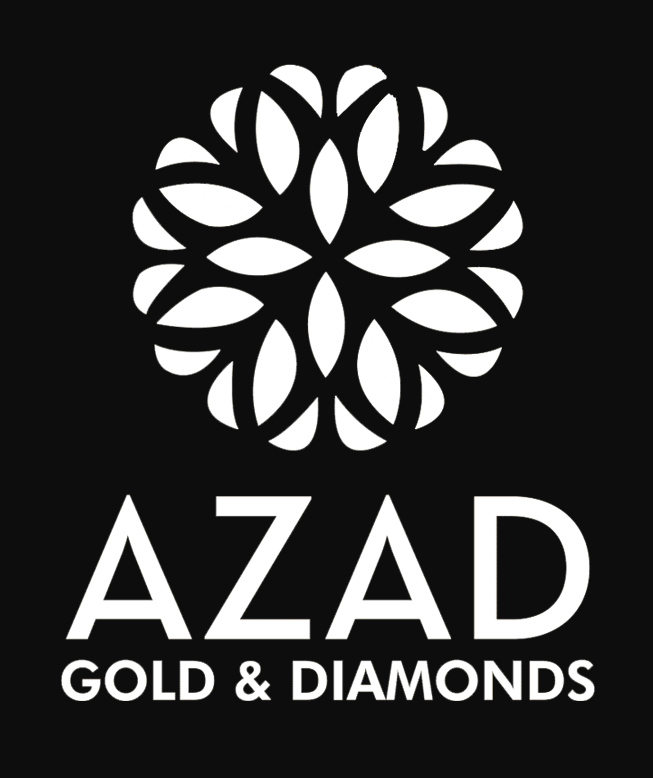
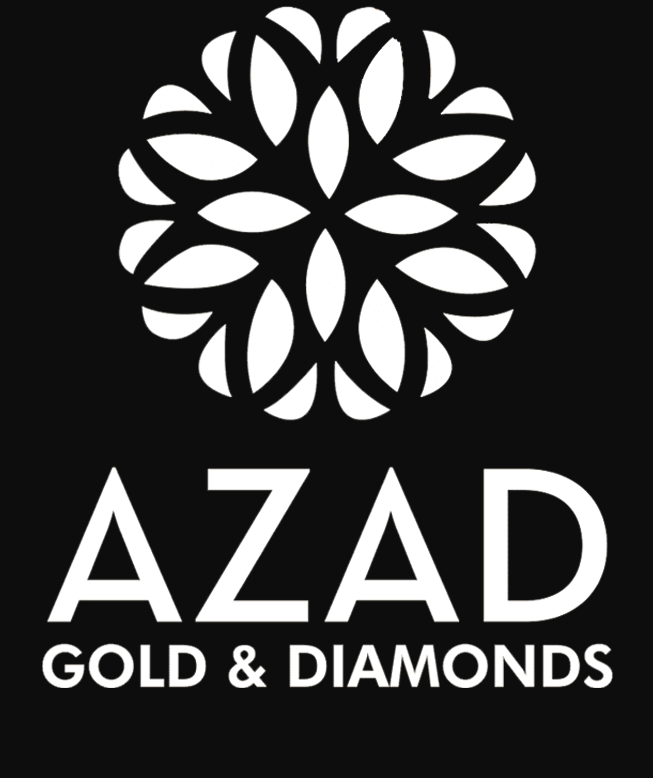
footer img

Changed region(s): [[0.0613, 0.0, 0.9495, 0.9254]]

diff --git a/index.html b/index.html
@@ -341,7 +341,7 @@ overflow:hidden;
               <li class="news-letter-inner">
                 <h4>We have a long history of making exceptional jewelry for our clients to help them grow their businesses. </h4>
               </li>
-              <li class="purchage-theme"> <a href="#">Contact Now</a> </li>
+             <!-- <li class="purchage-theme"> <a href="#">Contact Now</a> </li>-->
             </ul>
           </div>
         </div>

diff --git a/assets/css/style.css b/assets/css/style.css
@@ -1891,7 +1891,9 @@ color: #777;
 footer {
   float: left;
   width: 100%;
+  margin-top: 2px;
   margin:  0 0;
+
   font-family:'Josefin Sans', sans-serif;
   color: #a1a1a1;background: #111;
 }
